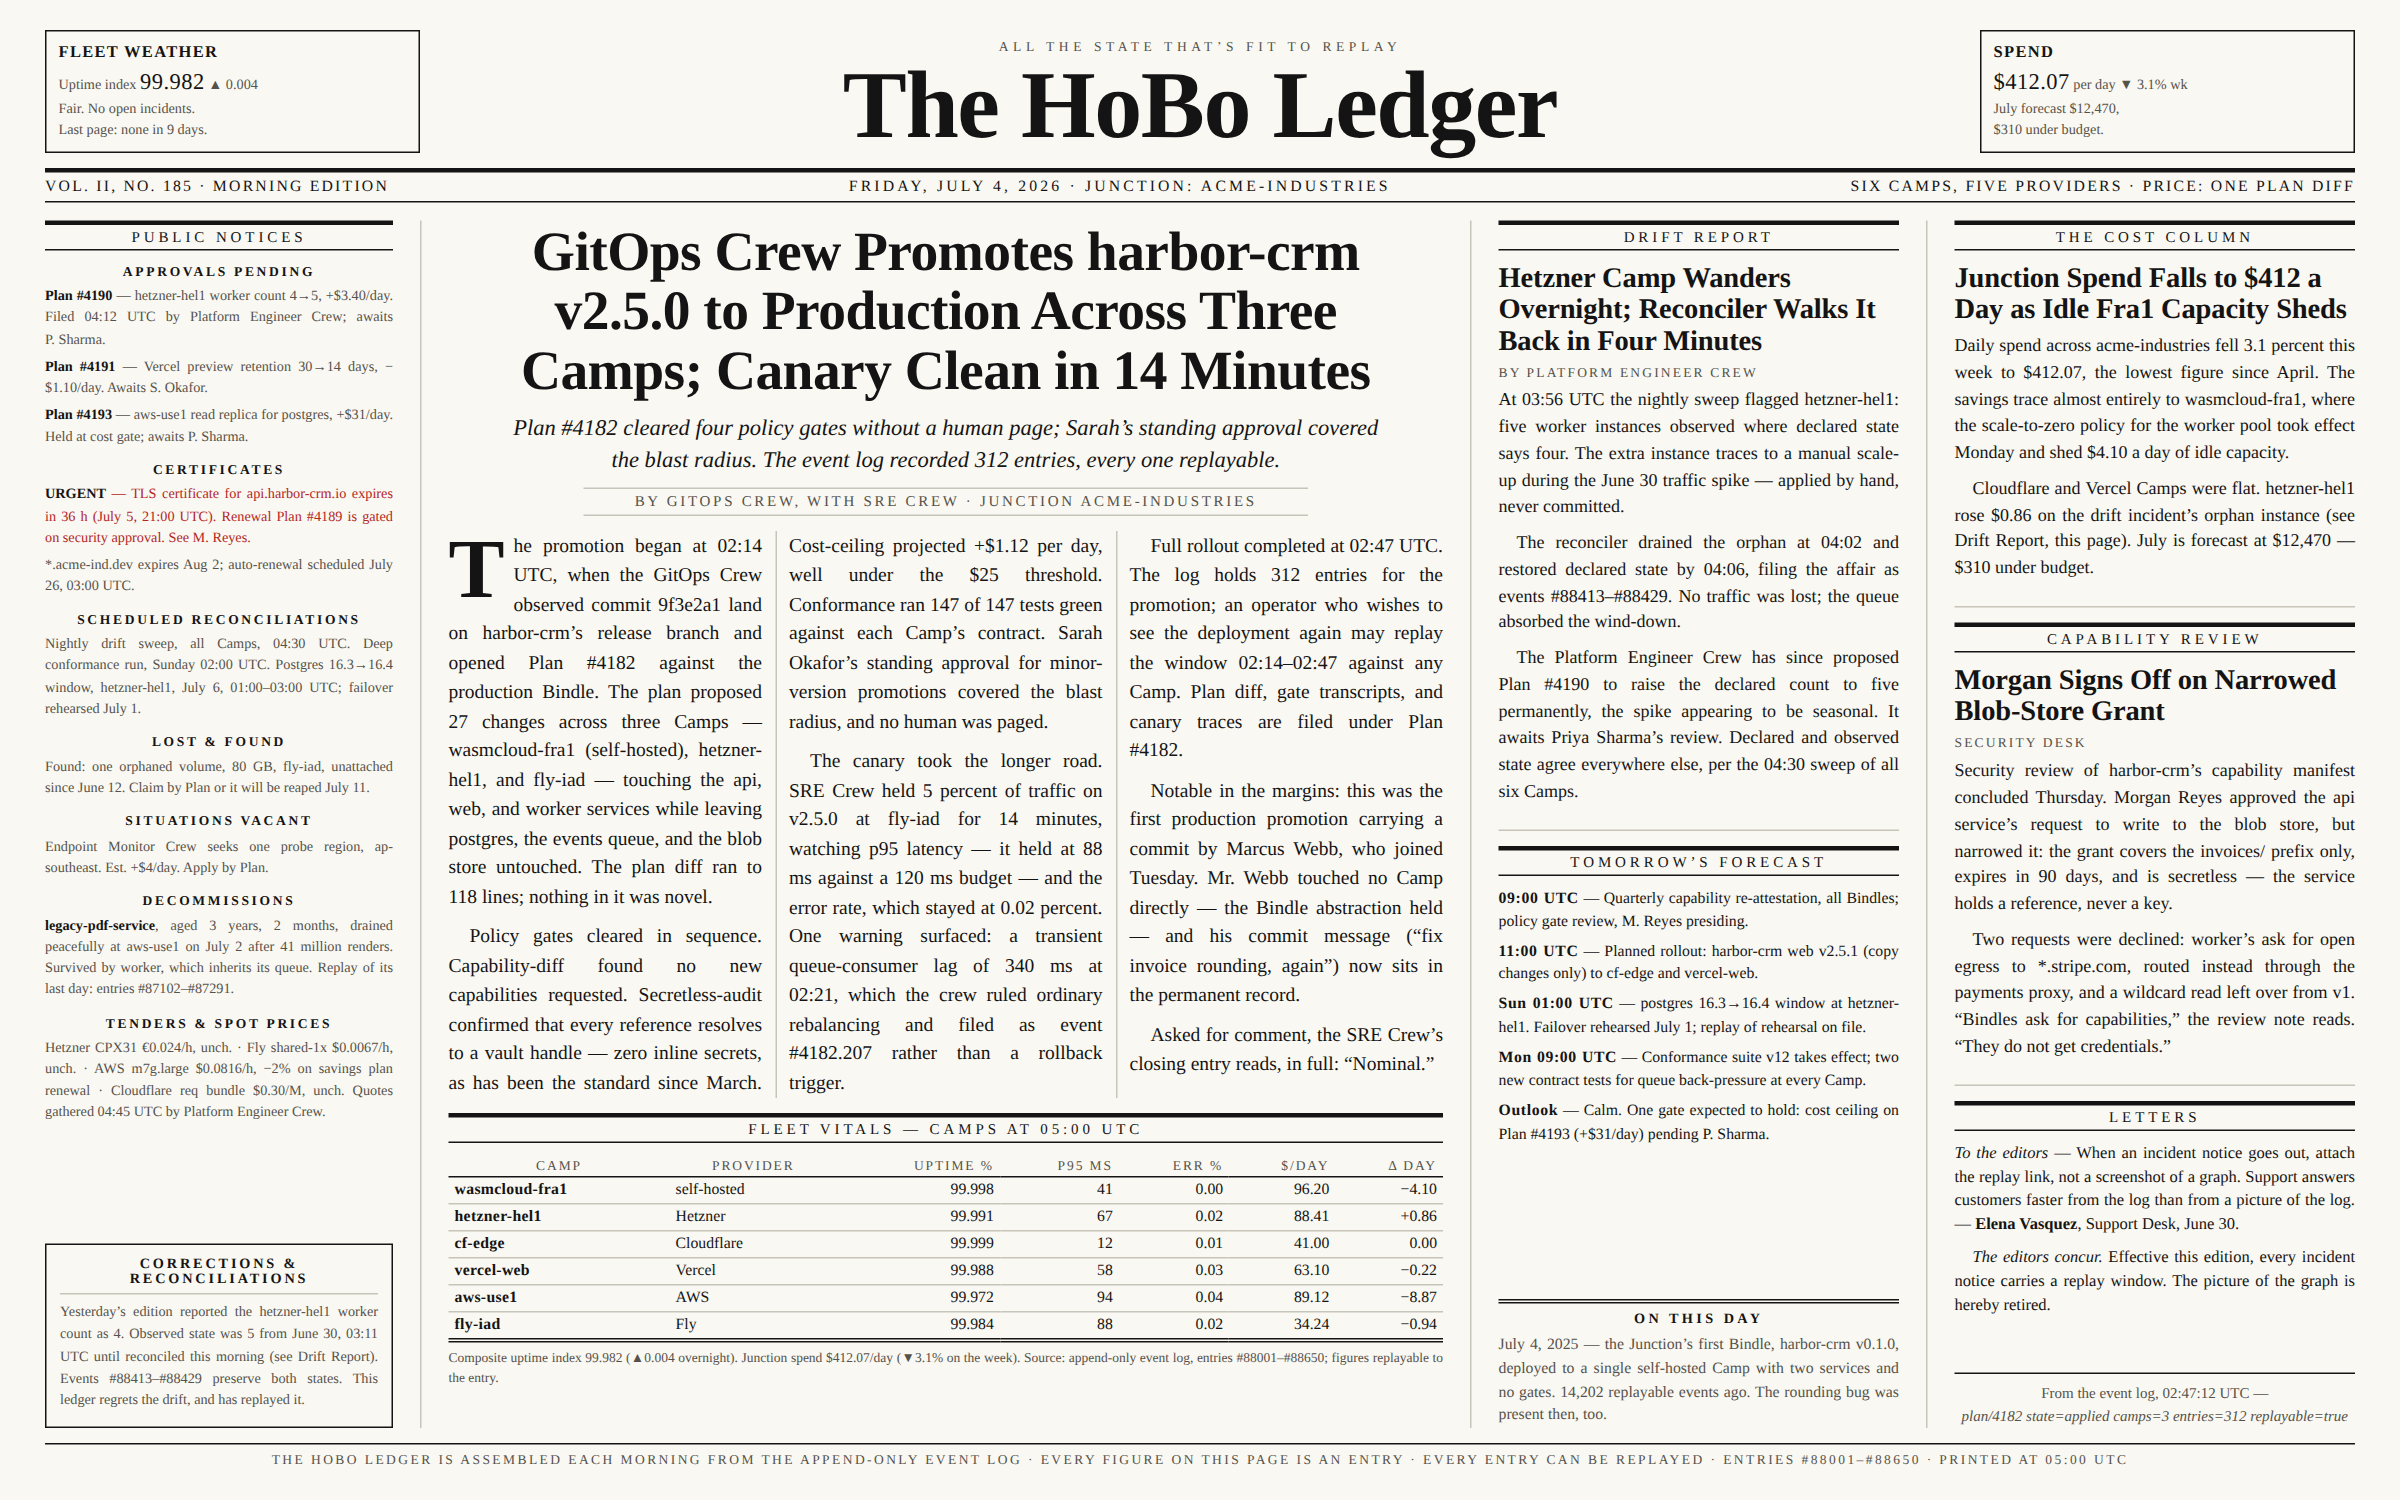
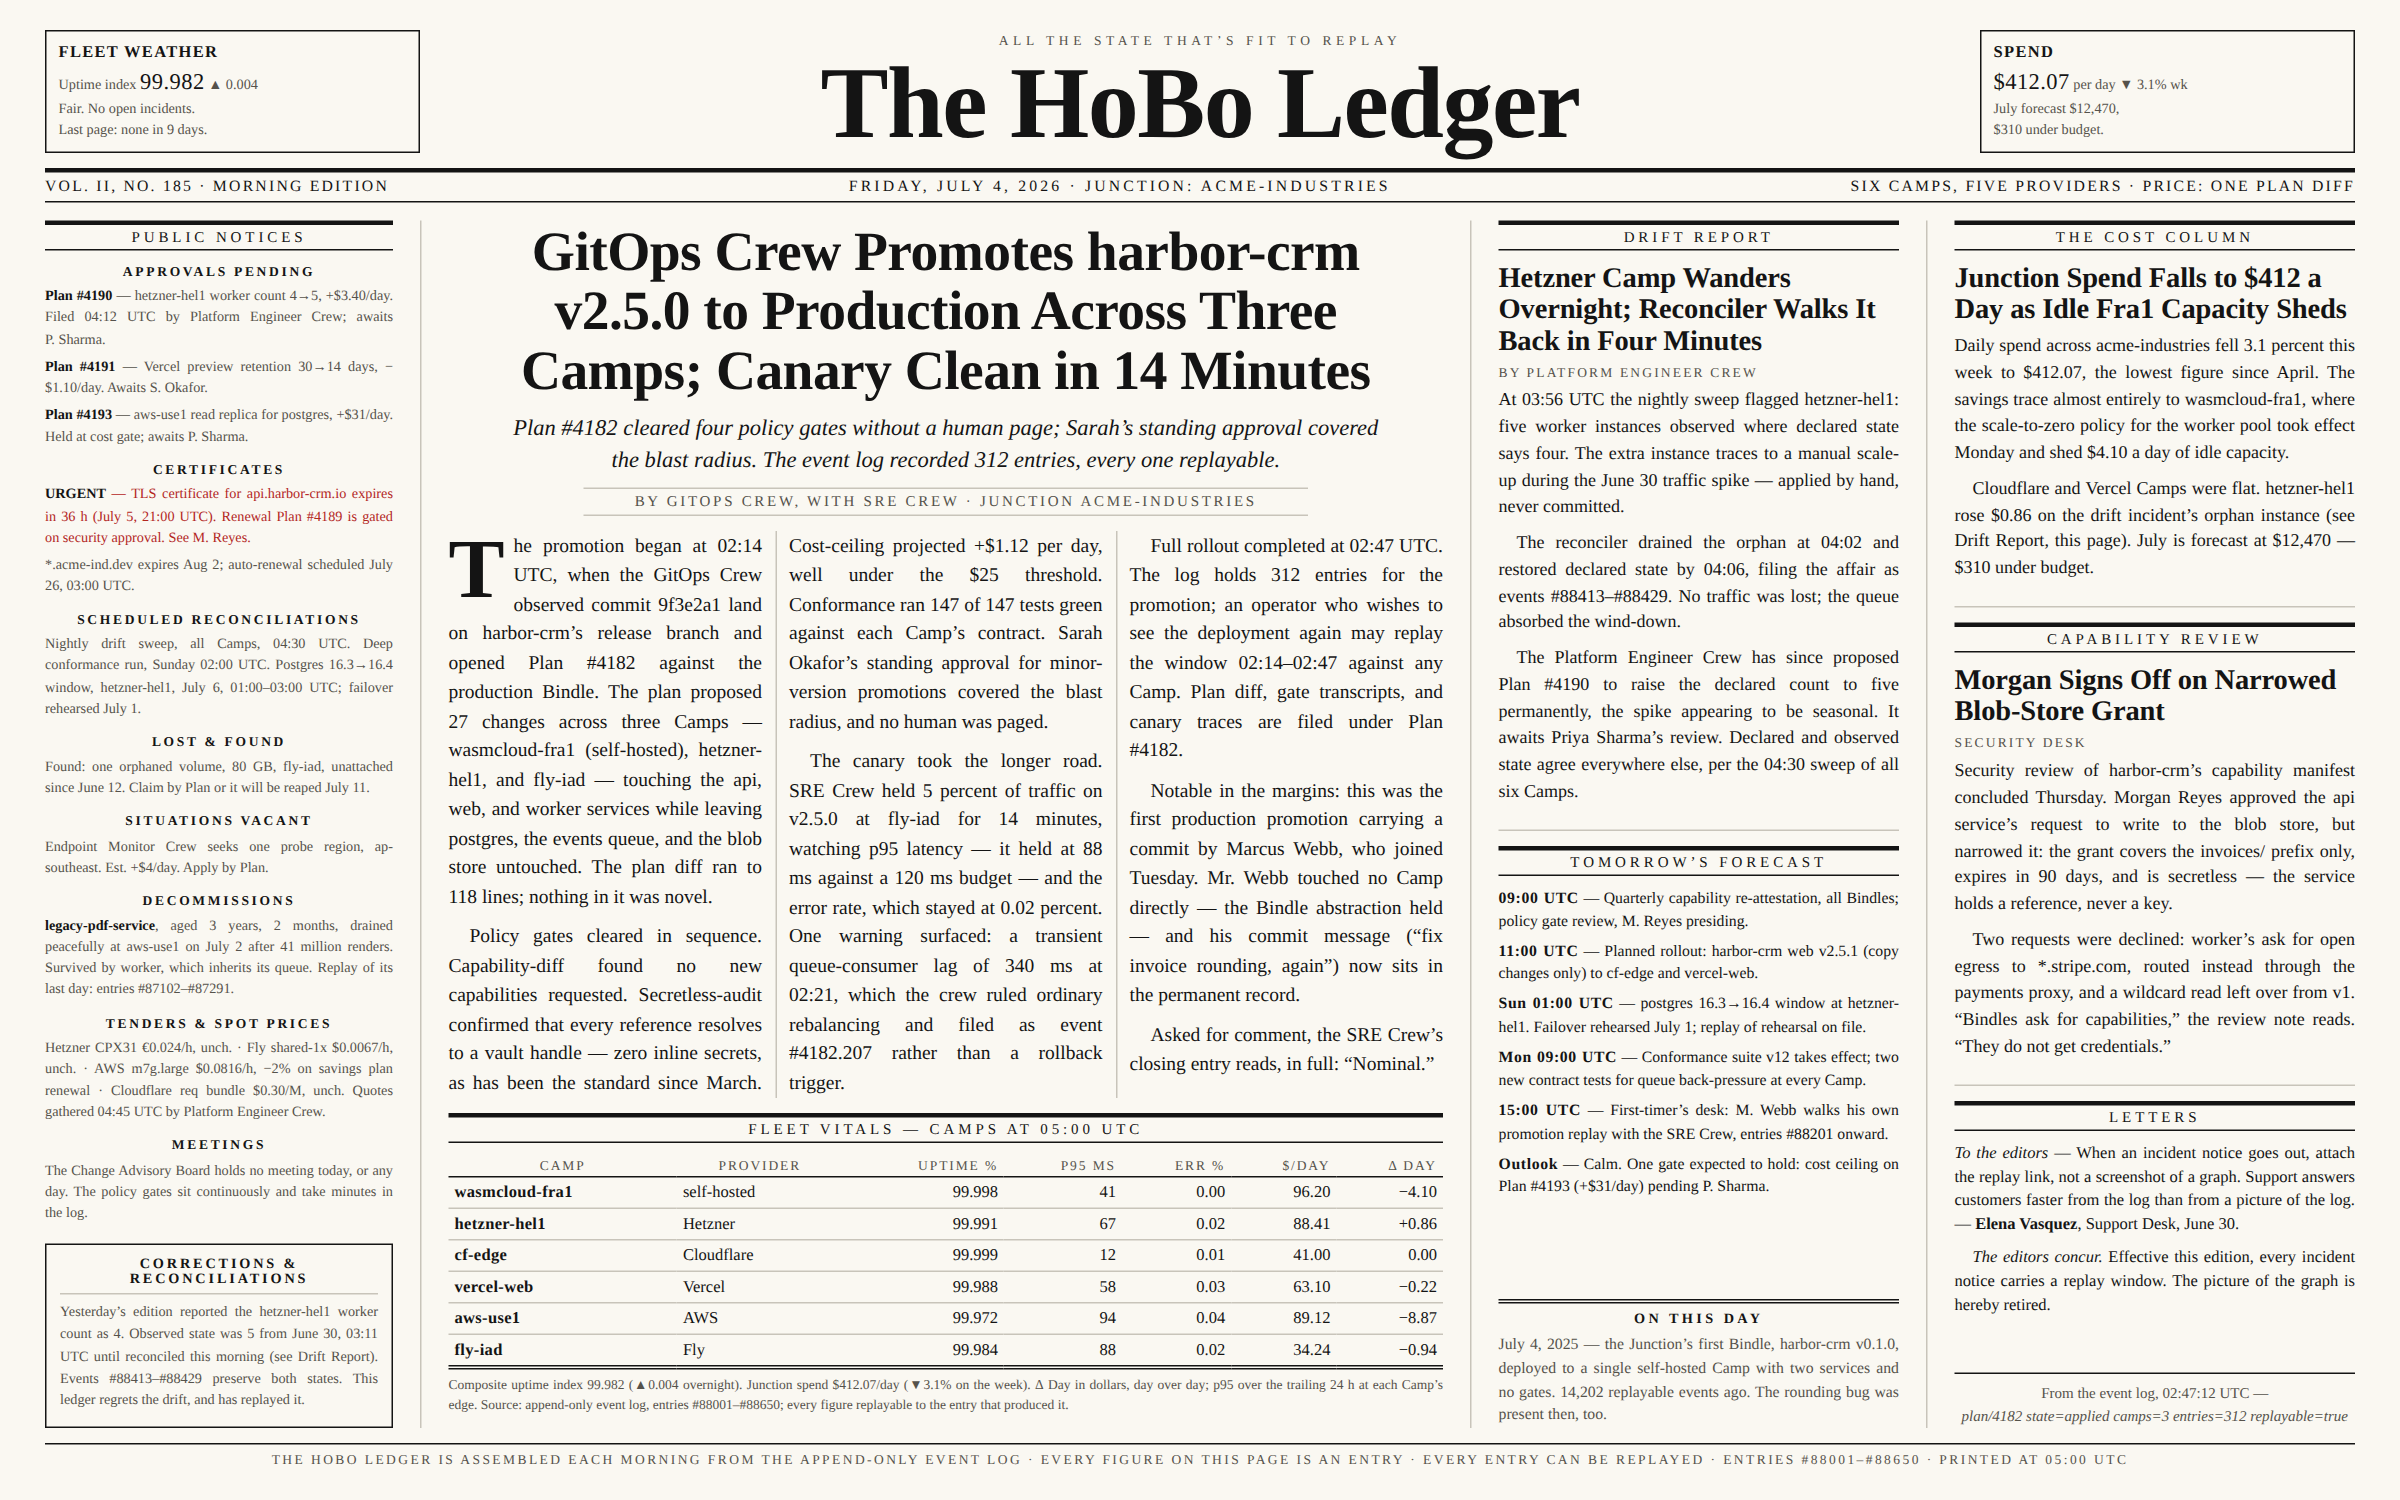
docs(design): wip exploration mockups — organism, timetable evidence updates
Claude-Session: https://claude.ai/code/session_01193JfQgH8myHQ6ySCdWLrD

diff --git a/docs/design/explorations/control-plane-ux/05-conversation/mockup.html b/docs/design/explorations/control-plane-ux/05-conversation/mockup.html
@@ -30,19 +30,19 @@ body{width:1600px;height:1000px;overflow:hidden;background:var(--cream);color:va
   display:flex;align-items:center;justify-content:center;font-size:var(--fs-sm);font-weight:700}
 /* ---------- frame ---------- */
 .frame{display:flex;height:948px}
-.convo{width:992px;display:flex;flex-direction:column;padding:var(--s4) var(--s5) var(--s4) var(--s5)}
-.stream{flex:1;display:flex;flex-direction:column;gap:var(--s3);min-height:0}
+.convo{width:992px;display:flex;flex-direction:column;padding:14px var(--s5)}
+.stream{flex:1;display:flex;flex-direction:column;gap:9px;min-height:0}
 /* ---------- messages ---------- */
 .msg{display:flex;gap:var(--s3);max-width:760px}
 .msg.user{align-self:flex-end;flex-direction:row-reverse}
 .avatar{width:34px;height:34px;border-radius:50%;flex:none;display:flex;align-items:center;justify-content:center;margin-top:2px}
 .avatar.human{background:var(--ink);color:var(--bubble);font-weight:700;font-size:var(--fs-md)}
-.who{display:flex;align-items:baseline;gap:var(--s2);margin-bottom:3px;font-size:var(--fs-sm)}
+.who{display:flex;align-items:baseline;gap:var(--s2);margin-bottom:2px;font-size:var(--fs-sm)}
 .who .name{font-weight:700}
 .who .role{font-weight:600;font-size:var(--fs-xs);letter-spacing:.4px;text-transform:uppercase}
 .who .t{color:var(--faint);font-size:var(--fs-xs)}
 .bubble{background:var(--bubble);border:1px solid var(--line);border-radius:var(--r);
-  padding:10px 14px;box-shadow:0 1px 2px rgba(38,34,30,.05)}
+  padding:8px 13px;box-shadow:0 1px 2px rgba(38,34,30,.05)}
 .msg.user .bubble{background:var(--ink);color:var(--cream);border-color:var(--ink);border-bottom-right-radius:4px}
 .msg.user .who{justify-content:flex-end}
 .spine{border-left:3px solid var(--line)}
@@ -52,12 +52,12 @@ body{width:1600px;height:1000px;overflow:hidden;background:var(--cream);color:va
 .em-c .spine{border-left-color:var(--endpoint)} .em-c .role{color:var(--endpoint-deep)}
 /* ---------- plan card ---------- */
 .plan{width:660px;padding:0;overflow:hidden}
-.plan-head{display:flex;align-items:center;gap:var(--s2);padding:10px 14px;border-bottom:1px solid var(--line-soft)}
+.plan-head{display:flex;align-items:center;gap:var(--s2);padding:8px 14px;border-bottom:1px solid var(--line-soft)}
 .plan-head .pid{font-size:var(--fs-xs);color:var(--faint);font-weight:600}
 .plan-head .ttl{font-weight:700;font-size:var(--fs-md)}
 .plan-head .scope{margin-left:auto;font-size:var(--fs-xs);color:var(--muted)}
-.diff{padding:6px 8px;display:flex;flex-direction:column;gap:3px}
-.dl{display:flex;align-items:center;gap:10px;border-radius:6px;padding:5px 8px;font-size:var(--fs-md)}
+.diff{padding:5px 8px;display:flex;flex-direction:column;gap:2px}
+.dl{display:flex;align-items:center;gap:10px;border-radius:6px;padding:4px 8px;font-size:var(--fs-md)}
 .dl .m{width:14px;text-align:center;font-weight:800;flex:none}
 .dl small{margin-left:auto;color:var(--muted);font-size:var(--fs-xs);white-space:nowrap}
 .dl.add{background:var(--diff-green-bg);color:var(--diff-green-tx)}
@@ -67,13 +67,13 @@ body{width:1600px;height:1000px;overflow:hidden;background:var(--cream);color:va
 .dl.mod{background:var(--chip)}
 .dl.mod .old{color:var(--diff-red-tx);text-decoration:line-through;text-decoration-thickness:1px}
 .dl.mod .new{color:var(--diff-green-tx);font-weight:600}
-.plan-sum{display:flex;align-items:center;gap:var(--s4);padding:9px 14px;border-top:1px solid var(--line-soft);font-size:var(--fs-sm)}
-.plan-sum .cost{font-weight:700;font-size:var(--fs-lg);font-variant-numeric:tabular-nums}
+.plan-sum{display:flex;align-items:center;gap:var(--s3);padding:7px 14px;border-top:1px solid var(--line-soft);font-size:var(--fs-sm);white-space:nowrap}
+.plan-sum .cost{font-weight:800;font-size:var(--fs-md);font-variant-numeric:tabular-nums}
 .plan-sum .ok{color:var(--diff-green-tx);font-weight:600}
-.gate-chip{display:inline-flex;align-items:center;gap:5px;background:var(--amber-bg);color:var(--amber);
-  border:1px solid var(--amber);border-radius:999px;padding:2px 9px;font-size:var(--fs-xs);font-weight:700}
-.plan-foot{display:flex;gap:var(--s2);padding:10px 14px;border-top:1px solid var(--line-soft);background:var(--cream)}
-.btn{border-radius:var(--r-sm);padding:7px 14px;font-size:var(--fs-sm);font-weight:700;border:1px solid var(--line);background:var(--bubble);color:var(--ink)}
+.gate-chip{display:inline-flex;align-items:center;gap:4px;background:var(--amber-bg);color:var(--amber);
+  border:1px solid var(--amber);border-radius:999px;padding:2px 8px;font-size:var(--fs-xs);font-weight:700;white-space:nowrap}
+.plan-foot{display:flex;gap:var(--s2);padding:8px 14px;border-top:1px solid var(--line-soft);background:var(--cream)}
+.btn{border-radius:var(--r-sm);padding:6px 13px;font-size:var(--fs-sm);font-weight:700;border:1px solid var(--line);background:var(--bubble);color:var(--ink)}
 .btn.primary{background:var(--pe);border-color:var(--pe);color:var(--bubble)}
 .plan-foot .hint{margin-left:auto;align-self:center;font-size:var(--fs-xs);color:var(--faint)}
 /* ---------- system chips ---------- */
@@ -83,7 +83,7 @@ body{width:1600px;height:1000px;overflow:hidden;background:var(--cream);color:va
 .syschip .t{color:var(--faint);font-size:var(--fs-xs)}
 .syschip .tick{color:var(--diff-green-tx);font-weight:800}
 /* ---------- checklist ---------- */
-.check{display:flex;flex-direction:column;gap:6px;margin-top:4px}
+.check{display:flex;flex-direction:column;gap:4px;margin-top:3px}
 .ck{display:flex;align-items:center;gap:9px;font-size:var(--fs-md)}
 .ck .st{width:17px;height:17px;border-radius:50%;flex:none;display:flex;align-items:center;justify-content:center}
 .ck small{margin-left:auto;color:var(--faint);font-size:var(--fs-xs);white-space:nowrap}
@@ -94,18 +94,18 @@ body{width:1600px;height:1000px;overflow:hidden;background:var(--cream);color:va
 .bar{height:5px;border-radius:3px;background:var(--line-soft);margin:2px 0 0 26px;width:420px}
 .bar i{display:block;height:5px;border-radius:3px;background:var(--gitops);width:64%}
 /* ---------- verdict ---------- */
-.verdict{display:flex;gap:var(--s4);align-items:center;margin-top:6px}
+.verdict{display:flex;gap:var(--s4);align-items:center;margin-top:3px}
 .stats{display:flex;flex-direction:column;gap:2px;font-size:var(--fs-sm)}
 .stats b{font-variant-numeric:tabular-nums}
 .promote{display:inline-flex;align-items:center;gap:6px;background:var(--diff-green-bg);color:var(--diff-green-tx);
-  font-weight:700;font-size:var(--fs-sm);border-radius:999px;padding:4px 12px;margin-top:6px}
+  font-weight:700;font-size:var(--fs-sm);border-radius:999px;padding:3px 11px;margin-top:4px}
 /* ---------- composer ---------- */
-.composer{margin-top:var(--s3);flex:none}
-.suggest{display:flex;gap:var(--s2);margin-bottom:var(--s2)}
+.composer{margin-top:10px;flex:none}
+.suggest{display:flex;gap:var(--s2);margin-bottom:7px}
 .sg{background:var(--bubble);border:1px solid var(--line);border-radius:999px;padding:5px 13px;
   font-size:var(--fs-sm);color:var(--muted)}
 .input{display:flex;align-items:center;gap:var(--s3);background:var(--bubble);border:1.5px solid var(--line);
-  border-radius:var(--r);padding:13px 16px;box-shadow:0 1px 3px rgba(38,34,30,.06)}
+  border-radius:var(--r);padding:11px 16px;box-shadow:0 1px 3px rgba(38,34,30,.06)}
 .input .ph{color:var(--faint);flex:1;font-size:var(--fs-md)}
 .input .caret{width:2px;height:18px;background:var(--pe)}
 .send{width:34px;height:34px;border-radius:50%;background:var(--ink);display:flex;align-items:center;justify-content:center}
@@ -203,7 +203,7 @@ body{width:1600px;height:1000px;overflow:hidden;background:var(--cream);color:va
             <div class="plan-sum">
               <span class="cost">est. $31.20/day</span>
               <span class="ok">✓ $8.80 under budget</span>
-              <span style="margin-left:auto;color:var(--muted)">2 policy gates required:</span>
+              <span style="margin-left:auto;color:var(--muted)">2 gates required:</span>
               <span class="gate-chip">⛨ data-residency</span>
               <span class="gate-chip">⛨ public-exposure</span>
             </div>
@@ -251,13 +251,13 @@ body{width:1600px;height:1000px;overflow:hidden;background:var(--cream);color:va
           <div class="bubble spine" style="width:560px">
             Canary <b>web v1.42</b> @ 25% traffic · 12 min
             <div class="verdict">
-              <svg width="230" height="52" viewBox="0 0 230 52">
-                <line x1="0" y1="26" x2="230" y2="26" stroke="#E5DFD5" stroke-dasharray="3 3"/>
-                <text x="2" y="22" font-size="8" fill="#8A8075">baseline p95 221 ms</text>
-                <path d="M0 30 20 27 40 32 60 24 80 28 100 22 120 26 140 20 160 23 180 19 200 21 230 18"
+              <svg width="230" height="46" viewBox="0 0 230 46">
+                <line x1="0" y1="23" x2="230" y2="23" stroke="#E5DFD5" stroke-dasharray="3 3"/>
+                <text x="2" y="19" font-size="8" fill="#8A8075">baseline p95 221 ms</text>
+                <path d="M0 27 20 24 40 29 60 21 80 25 100 19 120 23 140 17 160 20 180 16 200 18 230 15"
                   fill="none" stroke="#7C5CFF" stroke-width="2" stroke-linecap="round"/>
-                <circle cx="230" cy="18" r="3" fill="#7C5CFF"/>
-                <text x="150" y="46" font-size="9" font-weight="700" fill="#5F41D9">p95 214 ms canary</text>
+                <circle cx="230" cy="15" r="3" fill="#7C5CFF"/>
+                <text x="146" y="42" font-size="9" font-weight="700" fill="#5F41D9">p95 214 ms canary</text>
               </svg>
               <div class="stats">
                 <span>p95 <b>214 ms</b> vs 221 ms baseline</span>

diff --git a/docs/design/explorations/control-plane-ux/02-broadsheet/mockup.html b/docs/design/explorations/control-plane-ux/02-broadsheet/mockup.html
@@ -34,7 +34,7 @@ body{
 .title-block{text-align:center}
 .motto{font-size:9px;letter-spacing:.34em;text-transform:uppercase;color:var(--agate);margin-bottom:2px}
 .masthead-title{
-  font-weight:bold;font-size:64px;line-height:1;
+  font-weight:bold;font-size:68px;line-height:1;
   letter-spacing:-0.015em;
 }
 .masthead-title .amp{font-weight:normal}
@@ -218,7 +218,7 @@ footer.baseline{
         <tr><td>aws-use1</td><td>AWS</td><td class="n">99.972</td><td class="n">94</td><td class="n">0.04</td><td class="n">89.12</td><td class="n">&#8722;8.87</td></tr>
         <tr><td>fly-iad</td><td>Fly</td><td class="n">99.984</td><td class="n">88</td><td class="n">0.02</td><td class="n">34.24</td><td class="n">&#8722;0.94</td></tr>
       </table>
-      <p class="tabnote">Composite uptime index 99.982 (&#9650;0.004 overnight). Junction spend $412.07/day (&#9660;3.1% on the week). Source: append-only event log, entries #88001&ndash;#88650; figures replayable to the entry.</p>
+      <p class="tabnote">Composite uptime index 99.982 (&#9650;0.004 overnight). Junction spend $412.07/day (&#9660;3.1% on the week). &Delta;&nbsp;Day in dollars, day over day; p95 over the trailing 24&nbsp;h at each Camp&rsquo;s edge. Source: append-only event log, entries #88001&ndash;#88650; every figure replayable to the entry that produced it.</p>
     </div>
   </section>
 
